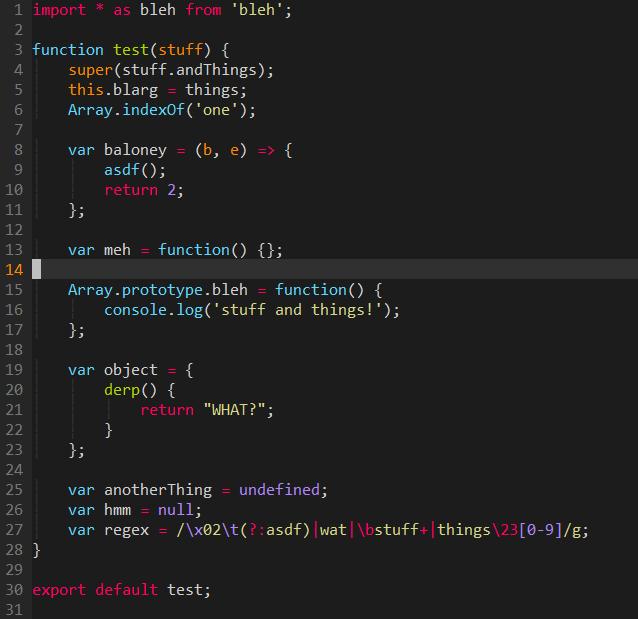
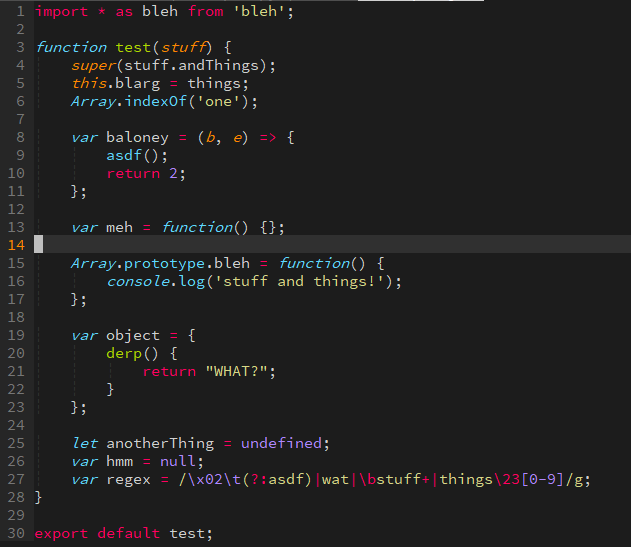
Fix up italics for jsFunction, jsStorageClass

diff --git a/examples/example.js b/examples/example.js
@@ -22,10 +22,9 @@ function test(stuff) {
 		}
 	};
 
-	var anotherThing = undefined;
+	let anotherThing = undefined;
 	var hmm = null;
 	var regex = /\x02\t(?:asdf)|wat|\bstuff+|things\23[0-9]/g;
 }
 
 export default test;
-
